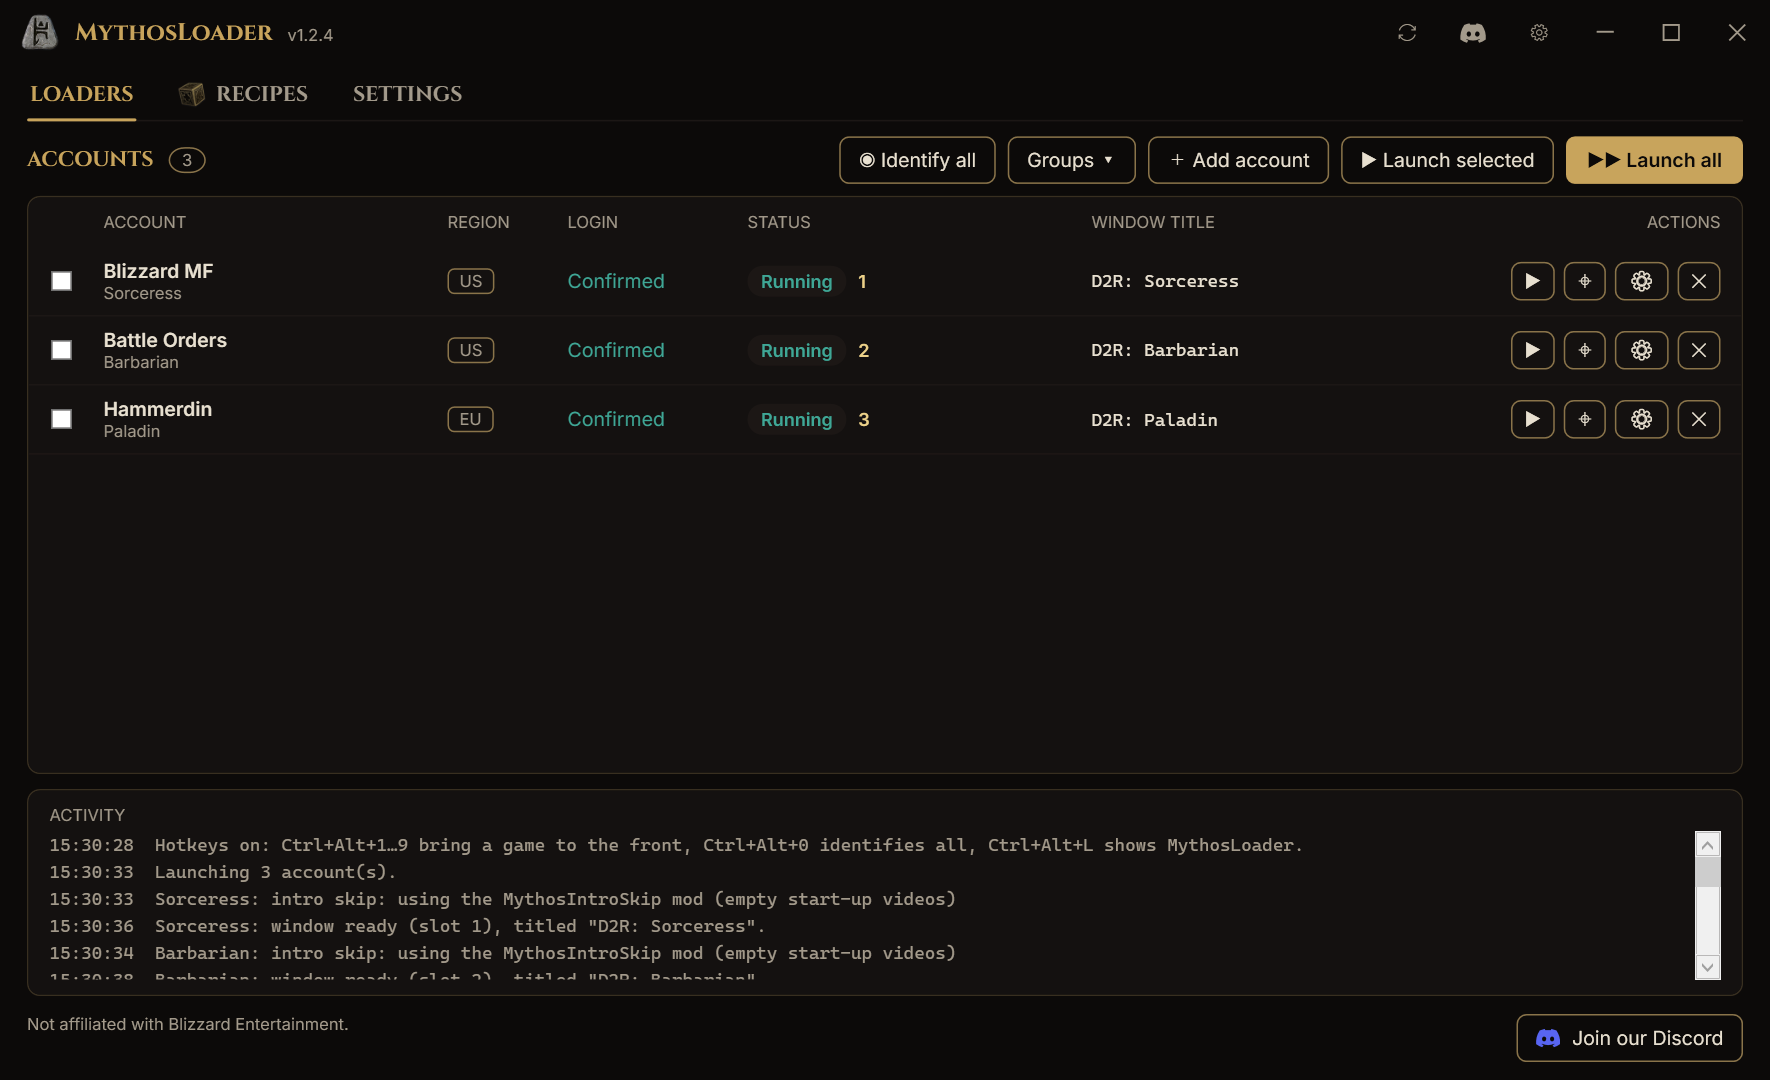
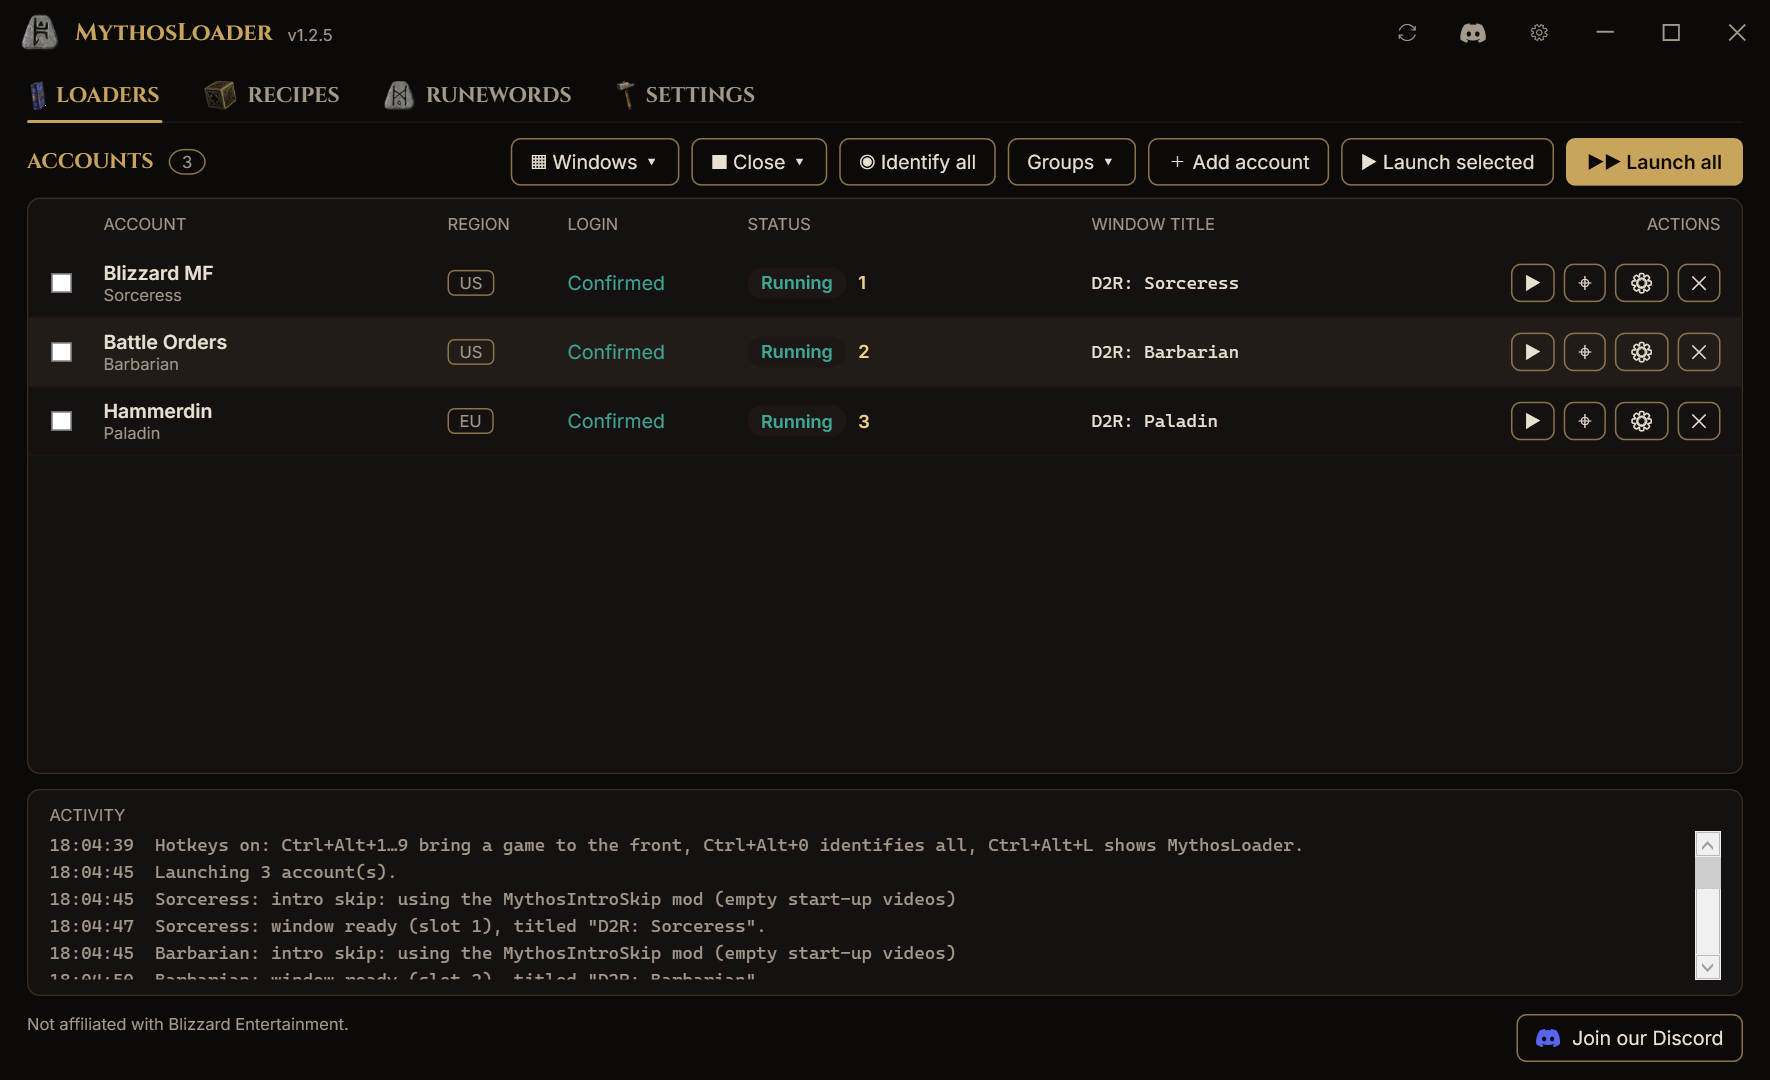
MythosLoader 1.2.5: window layouts, close and relaunch, lighter settings for alts, Runewords tab, favourites

diff --git a/README.md b/README.md
@@ -16,6 +16,7 @@
     <a href="#-security-and-privacy">Security</a> ·
     <a href="#-getting-started">Getting started</a> ·
     <a href="#-faq">FAQ</a> ·
+    <a href="https://www.d2rmythos.com/loader">Website</a> ·
     <a href="https://discord.com/invite/d2rmythos">Discord</a>
   </b>
 </p>
@@ -23,10 +24,10 @@
 ---
 
 > [!IMPORTANT]
-> **MythosLoader 1.2 is out.** [Download it from the Releases page](../../releases/latest).
-> New in 1.2: the **system tray**, **Identify** labels on every game window, **focus hotkeys**,
-> **groups**, a **title keeper**, and **import from D2RML**. If you already have 1.1 or newer, press
-> **Update** in the title bar.
+> **MythosLoader 1.2.5 is out.** [Download it from the Releases page](../../releases/latest).
+> New in 1.2.5: **window layouts** (tile your games, they reopen where you left them), **Close all** and
+> **Relaunch closed** after a crash, **lighter game settings for alts**, a **Runewords** tab and
+> **favourite** recipes and runewords. If you already have 1.1 or newer, press **Update** in the title bar.
 >
 > Sections marked **(planned)** describe features coming in later releases. MythosLoader is not
 > code-signed yet. If something doesn't work for you, tell us on
@@ -43,7 +44,7 @@ No more logging in by hand. No more alt-tabbing through four identical windows c
 <p align="center">
   <img src="assets/preview.png" alt="MythosLoader: the Loaders tab with three loaders running, each with its region, a confirmed login, a slot number and its window title" width="92%">
   <br>
-  <sub><i>Concept preview of the main window. Some parts shown here (groups, other clients, Identify) are planned.</i></sub>
+  <sub><i>The Loaders tab with three demo loaders running.</i></sub>
 </p>
 
 ## 📜 Contents
@@ -52,18 +53,21 @@ No more logging in by hand. No more alt-tabbing through four identical windows c
 - [Features](#-features)
   - [Accounts and saved logins](#accounts-and-saved-logins)
   - [Run several clients side by side](#run-several-clients-side-by-side)
+  - [Close, crash recovery and relaunch](#close-crash-recovery-and-relaunch)
   - [Window titles](#window-titles)
   - [Find and Identify](#find-and-identify)
   - [Focus hotkeys](#focus-hotkeys)
   - [Intro skip](#intro-skip)
   - [Cube recipes](#cube-recipes)
+  - [Runewords](#runewords)
   - [System tray](#system-tray)
   - [Game options](#game-options)
   - [Performance mod (lowHD)](#performance-mod-lowhd)
+  - [Lighter game settings for alts](#lighter-game-settings-for-alts)
   - [Updates](#updates)
   - [Groups and launch order](#groups-and-launch-order)
   - [Shortcuts and command line](#shortcuts-and-command-line)
-  - [Window layouts](#window-layouts-planned)
+  - [Window layouts](#window-layouts)
   - [Portable mode](#portable-mode)
 - [Coming from D2RML?](#-coming-from-d2rml)
 - [How it works](#-how-it-works)
@@ -98,15 +102,19 @@ barbarian, a mule, a friend's rush) that gets old fast:
 |---|---|
 | 🔑 **Saved logins** | Log in on Battle.net's own page once. MythosLoader never sees your password. |
 | 🪟 **Multi-launch** | One account, a group, or everything: all games load at once, then sign in a second or two apart. |
+| ▦ **Window layouts** | Tile your games on one monitor or across all of them; each opens where you left it next time. |
+| ↻ **Close and relaunch** | Close all or some games in one go; after a crash, **Relaunch closed** starts them again. |
 | 🏷 **Window titles** | Name every game window with a template like `D2R: {name}` or `[{index}] {label}`. |
 | 🎯 **Find** | Bring any client to the front, even when it's minimised or on another monitor. |
 | 🔦 **Identify** | Flash a big gold label over every running client so you can see which is which. |
 | ⌨ **Focus hotkeys** | `Ctrl+Alt+1` to `9` jump straight to a client. |
 | ⏩ **Intro skip** | No more logo videos and no "Press any key": straight to signing in. |
 | 🧊 **Cube recipes** | Every Horadric Cube recipe in the game, searchable, with rune and gem pictures. |
+| 📜 **Runewords** | Every runeword with its runes in order, bases, sockets, level and stats. Star your favourites. |
 | 🧭 **System tray** | Launch, focus and identify clients from the tray menu. |
 | ⚙ **Game options** | Windowed, no sound, mods and more, for all accounts or per account. |
 | 🪶 **Performance mod** | Run chosen loaders with lowHD to cut memory use and load times. One-click download. |
+| 🐢 **Lighter settings for alts** | A frame rate limit and the lowest graphics for one loader only; your main keeps its settings. |
 | ⬆ **Built-in updates** | A new version is one click away; no trip to GitHub. |
 | 🗂 **Groups** | "MF team", "Rush", "Mules": launch a whole group in one go. |
 | 🔗 **Shortcuts** | Desktop shortcuts and command-line launching for any account or group. |
@@ -138,9 +146,20 @@ itself on every launch. There's nothing extra to download and no command windows
 - A progress strip shows what's happening (`Launching barb-alt (2 of 3) · waiting for login`) with
   **Cancel** and **Cancel all** buttons.
 - Clicking launch on an account that's already running brings it to the front instead of starting a
-  second client on the same account.
+  second client on the same account. **Launch all** skips loaders that are already running, also after
+  MythosLoader was closed and opened again.
 - *(planned)* Games started some other way are listed under **Other clients**, and you can tell
   MythosLoader which account they belong to.
+
+### Close, crash recovery and relaunch
+
+- **■ Close ▾** closes **all games** or **the ones you ticked** in one go, after a Yes/No check.
+  Right-click a loader → **Close game** closes just that one. Each game is asked to close, exactly like
+  pressing its X, so it shuts down normally.
+- If a game closes by itself with an error, its row says **Crashed (exit code …)**, the Activity panel
+  says so and (with notifications on) a tray notification tells you.
+- **↻ Relaunch closed** appears whenever games have closed since you launched them, crashed or not, and
+  starts them all again with one click.
 
 ### Window titles
 
@@ -223,11 +242,30 @@ Event and Reign of the Warlock.
 - Pick a category to narrow the list; the counts show how many recipes each has.
 - Every card shows what goes in the cube (with pictures and counts), what comes out, the mods a crafted
   item always gets, its item level rule, and notes such as **Ladder only** or **Nightmare and Hell only**.
+- Press the ☆ on a recipe to make it a **favourite**: favourites are listed first and have their own
+  **★ Favourites** group.
 - The recipes are read from the game's own cube table and built into MythosLoader, so the tab works
   offline.
 
 <p align="center">
   <img src="assets/recipes.png" alt="The Recipes tab: a search for hit power shows the crafted helm and boots recipes, their ingredients with rune and gem pictures, the mods they always add and the item level rule" width="92%">
+</p>
+
+### Runewords
+
+The **Runewords** tab lists every runeword in the game (99, plus the ones the game never finished if you
+want to see them).
+
+- Each card shows the runes **in socket order** with their pictures, the number of sockets, the level
+  needed, the item types it can go in, and its stats (separately for weapons and shields where they
+  differ). It also says where it came from: Patch 1.10, D2R Ladder seasons and so on.
+- Search by name, rune (`jah`), base (`shield`) or stat (`teleport`); narrow it down by item type and
+  number of sockets.
+- Star runewords to keep them in your **★ Favourites**.
+- Read from the game's own runeword table and built into MythosLoader, so it works offline.
+
+<p align="center">
+  <img src="assets/runewords.png" alt="The Runewords tab: a search for Enigma shows its runes Jah, Ith, Ber in order with pictures, 3 sockets, level 65, body armour bases and its stats" width="92%">
 </p>
 
 ### System tray
@@ -293,6 +331,24 @@ lowHD is not made by us. All credit goes to its author; the original page is on
 [Nexus Mods](https://www.nexusmods.com/diablo2resurrected/mods/1054). If your game is installed under
 `Program Files`, Windows may ask you to run MythosLoader as administrator once for the install.
 
+### Lighter game settings for alts
+
+An alt that only stands in town (a Battle Orders barbarian, a mule, an aura paladin) doesn't need full
+graphics. In a loader's **Launch options**, under **Lighter game settings (this loader only)**:
+
+- **Frame rate limit**: your own setting, 30, 60, 90 or 120 fps.
+- **Lowest graphics**: the Low preset with every quality setting at its lowest.
+
+That loader's game starts with these; all your other games keep your own settings. All copies of the game
+share one settings file, so MythosLoader writes the lighter values just before that game starts and puts
+your file back as soon as the game has read it (a couple of seconds), before the next game starts. If you
+quit the alt from its menu (which saves its settings), the lighter values are set back to yours when it
+closes. If anything is interrupted, MythosLoader repairs it the next time it starts.
+
+<p align="center">
+  <img src="assets/lighter-settings.png" alt="Launch options for the Barbarian loader: lighter game settings with a 30 fps limit and lowest graphics, and the start preview" width="80%">
+</p>
+
 ### Updates
 
 - MythosLoader checks for a new release when it starts. When there is one, an **⬇ Update** button
@@ -321,11 +377,15 @@ MythosLoader.exe --minimized                   # start in the tray
 - These work when MythosLoader is not already running.
 - *(planned)* forwarding to an already-open MythosLoader, and **Create desktop shortcut**.
 
-### Window layouts (planned)
+### Window layouts
 
-- Save each client's position and size; it returns to the same spot on the next launch.
-- **Arrange** tiles all running clients on a monitor (2×1, 2×2, 3×2).
-- Layouts remember which monitor they belong to and are skipped if it's unplugged.
+- **▦ Windows ▾ → Tile on this monitor** arranges all running games in a grid on the monitor MythosLoader
+  is on, as big as they fit at the game's 16:9 shape (two side by side, four in a 2×2, …).
+- **Tile across all monitors** spreads them evenly over every monitor.
+- Each game **opens where it was** next time: positions are saved when you tile, with **Save window
+  positions**, and when you close a game from MythosLoader. **Forget saved positions** clears them.
+- A saved place on a monitor that is no longer there is ignored, and full-screen games are left alone.
+- Turn it off in Settings ("Remember each game's window position").
 
 ### Portable mode
 
@@ -431,7 +491,7 @@ your PC clean.
 
 ## 🚀 Getting started
 
-1. **Download** `MythosLoader-1.2.4-win-x64.zip` from the [Releases](../../releases/latest) page.
+1. **Download** `MythosLoader-1.2.5-win-x64.zip` from the [Releases](../../releases/latest) page.
 2. **Unblock** it: right-click the zip → **Properties** → tick **Unblock** → **OK**. This stops the
    "Windows protected your PC" warning.
 3. **Unzip** it anywhere you like. There's no installer.
@@ -442,7 +502,7 @@ your PC clean.
 **Verify your download** (optional): every release lists SHA-256 checksums in `SHA256SUMS.txt`.
 
 ```powershell
-Get-FileHash .\MythosLoader-1.2.4-win-x64.zip -Algorithm SHA256
+Get-FileHash .\MythosLoader-1.2.5-win-x64.zip -Algorithm SHA256
 ```
 
 **Windows warnings.** MythosLoader is not code-signed yet, so Windows may warn about it:
@@ -467,6 +527,7 @@ Get-FileHash .\MythosLoader-1.2.4-win-x64.zip -Algorithm SHA256
 | Windows | Rename game windows | On |
 | Windows | Title template | `D2R: {name}` |
 | Windows | Title keeper | On |
+| Windows | Remember each game's window position | On |
 | Windows | Focus hotkeys | Off (`Ctrl+Alt`) |
 | Intro skip | Skip intro videos | On |
 | Intro skip | Method | Empty-video mod |
@@ -479,7 +540,8 @@ Get-FileHash .\MythosLoader-1.2.4-win-x64.zip -Algorithm SHA256
 | Advanced | Connection indicator per client | On |
 
 Per account: label, title template or *keep the game's title*, hotkey slot, intro skip, launch
-options (add or replace), saved window position, groups.
+options (add or replace), performance mod, lighter game settings (frame rate limit, lowest graphics), saved
+window position, groups.
 
 ## ❓ FAQ
 
@@ -583,8 +645,10 @@ Still stuck? Ask on [Discord](https://discord.com/invite/d2rmythos) and include 
 - [x] **1.0**: saved logins, add from token or Battle.net login, multi-launch, window titles, per-loader launch options, region switch, intro skip
 - [x] **1.1**: built-in updates, per-loader performance mod (lowHD) with one-click download
 - [x] **1.2**: system tray, Identify labels, focus hotkeys, groups, title keeper, D2RML import
+- [x] **1.2.4–1.2.5**: games load at once, cube Recipes and Runewords tabs, favourites, window layouts, close and
+  relaunch after a crash, lighter game settings for alts
 - [ ] Next: code-signed builds, first-run wizard, desktop shortcuts, "other clients" list
-- [ ] Later: per-account game settings profiles, window layouts, light theme, more languages
+- [ ] Later: light theme, more languages
 
 Want something on this list? Suggest it on [Discord](https://discord.com/invite/d2rmythos).
 
@@ -594,6 +658,7 @@ Want something on this list? Suggest it on [Discord](https://discord.com/invite/
   <a href="https://discord.com/invite/d2rmythos"><img src="https://img.shields.io/badge/Join%20the%20D2R%20Mythos%20Discord-5865F2?style=for-the-badge&logo=discord&logoColor=white" alt="Join the D2R Mythos Discord" height="44"></a>
 </p>
 
+- **Website:** [d2rmythos.com/loader](https://www.d2rmythos.com/loader) has the download, the guide and the forum.
 - **Help, questions and ideas:** the [D2R Mythos Discord](https://discord.com/invite/d2rmythos) is the fastest way.
 - **Bugs:** open an issue with the bug-report form.
 - **Security problems:** please report privately, see [SECURITY.md](SECURITY.md).

diff --git a/CHANGELOG.md b/CHANGELOG.md
@@ -1,5 +1,24 @@
 # MythosLoader release notes
 
+## 1.2.5
+
+- **Window layouts.** A new **▦ Windows ▾** button tiles your games on the monitor MythosLoader is on, or
+  across all your monitors, at the game's 16:9 shape. Each game opens where it was next time (saved when you
+  tile, with **Save window positions**, or when you close it from MythosLoader). A spot on a monitor that is
+  gone is ignored. Can be turned off in Settings.
+- **Close games from MythosLoader.** **■ Close ▾** closes all games or the ones you ticked, after a Yes/No
+  check; right-click a loader for **Close game**. Games close normally, like pressing their X.
+- **Crash recovery.** A game that closes with an error shows **Crashed (exit code …)** and a notification.
+  **↻ Relaunch closed** starts every game that closed again with one click.
+- **Lighter game settings for alts.** In a loader's Launch options: a frame rate limit (30 / 60 / 90 / 120) and
+  **Lowest graphics** for that loader's game only. Your other games keep your own settings.
+- **New Runewords tab:** every runeword with its runes in order, bases, sockets, level, stats and where it came
+  from, searchable by name, rune, base or stat.
+- **Favourites:** star recipes and runewords to keep them at the top.
+- **A running loader is never started twice.** Launch all skips loaders that are already running, also after
+  MythosLoader is reopened.
+- Tab icons on every tab and alternating row colours in the loader list.
+
 ## 1.2.4
 
 - **Much faster multi-launch.** All your games now load at the same time and sign in one by one, each as
